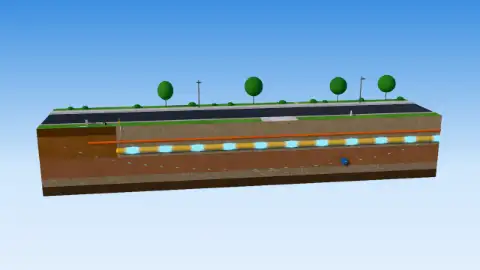
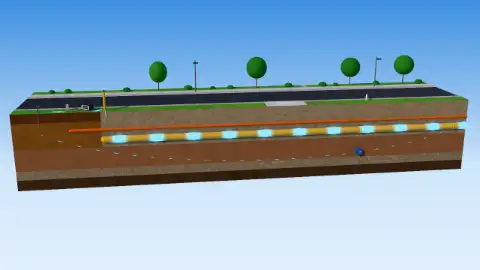
Re-capture the lab's stills, posters and share previews, its crops re-aimed
The lab's view is framed above its console now, so the portal's preview
of it and the phone's square hero are cut again around the block's near
end: the hookup, the trench and the signal setting off along the main.

diff --git a/scripts/thumbnails.ts b/scripts/thumbnails.ts
@@ -76,7 +76,7 @@ const SHOTS: Shot[] = [
     ready: labReady,
     hide: LAB_CHROME,
     // Close on the hookup and the signal setting off along the main, apart from the hero.
-    crop: { x: 260, y: 230, width: 620 },
+    crop: { x: 40, y: 185, width: 600 },
   },
   {
     name: 'gas-petroleum',
@@ -88,10 +88,10 @@ const SHOTS: Shot[] = [
 ];
 
 /**
- * The phone's square hero, cut from the wide capture (1200 × 900) around the block: the hookup, the
- * trench and the signal setting off, with little of the empty floor in front.
+ * The phone's square hero, cut from the wide capture (1200 × 900) around the block's near end: the
+ * hookup, the trench and the signal setting off along the main.
  */
-const HERO_SQUARE_CROP = { x: 160, y: 60, width: 800, height: 800 };
+const HERO_SQUARE_CROP = { x: 20, y: 150, width: 600, height: 600 };
 
 /** The portal's hero: the lab's block in its town, the signal along the gas main. */
 const HERO = {
